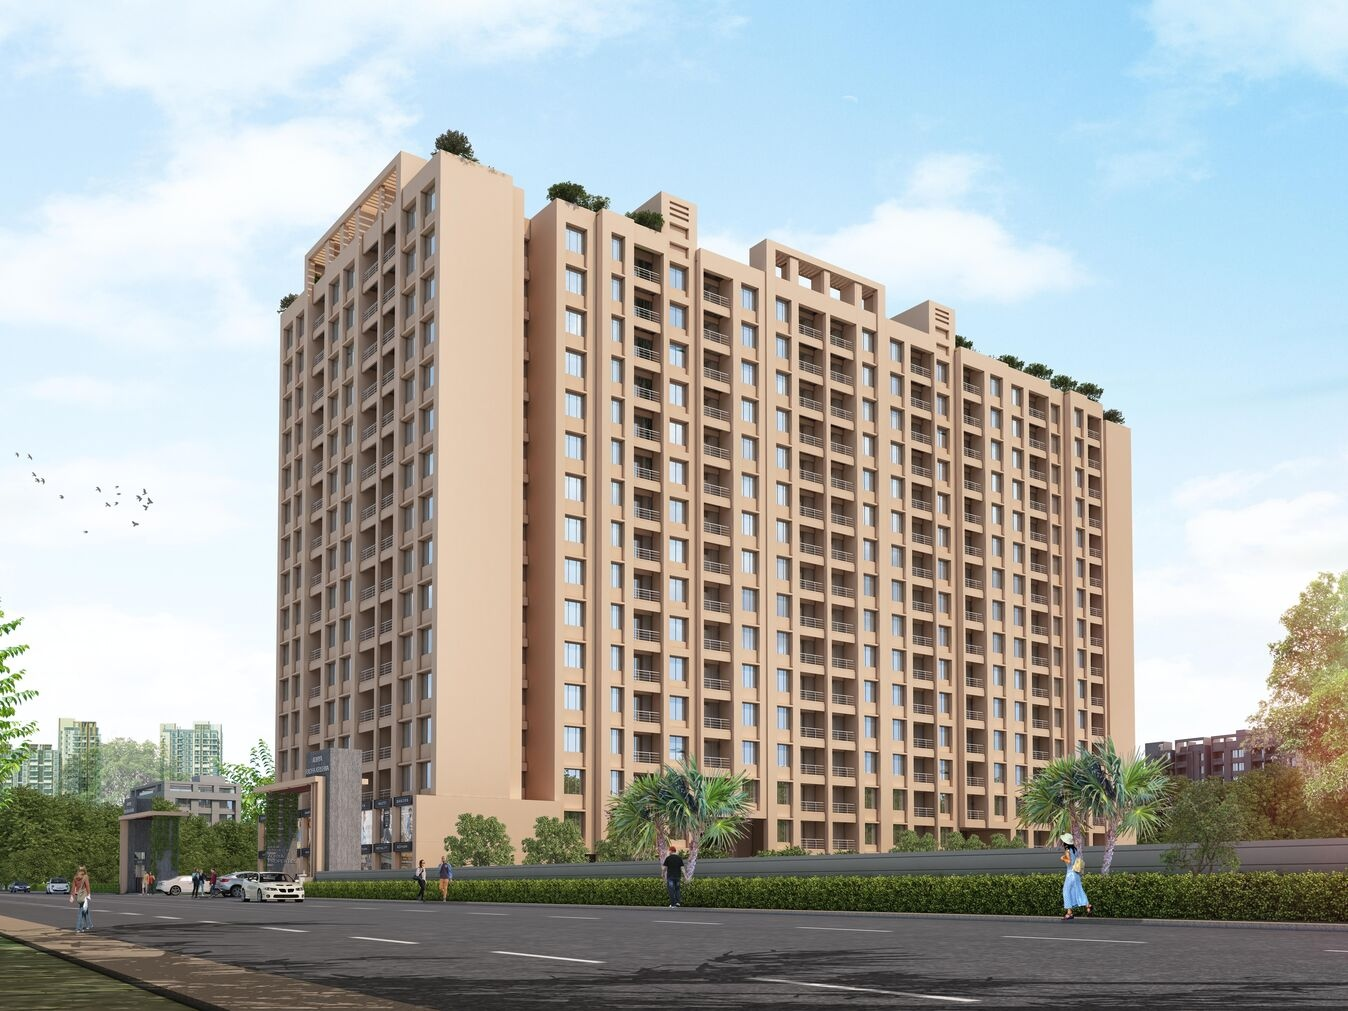
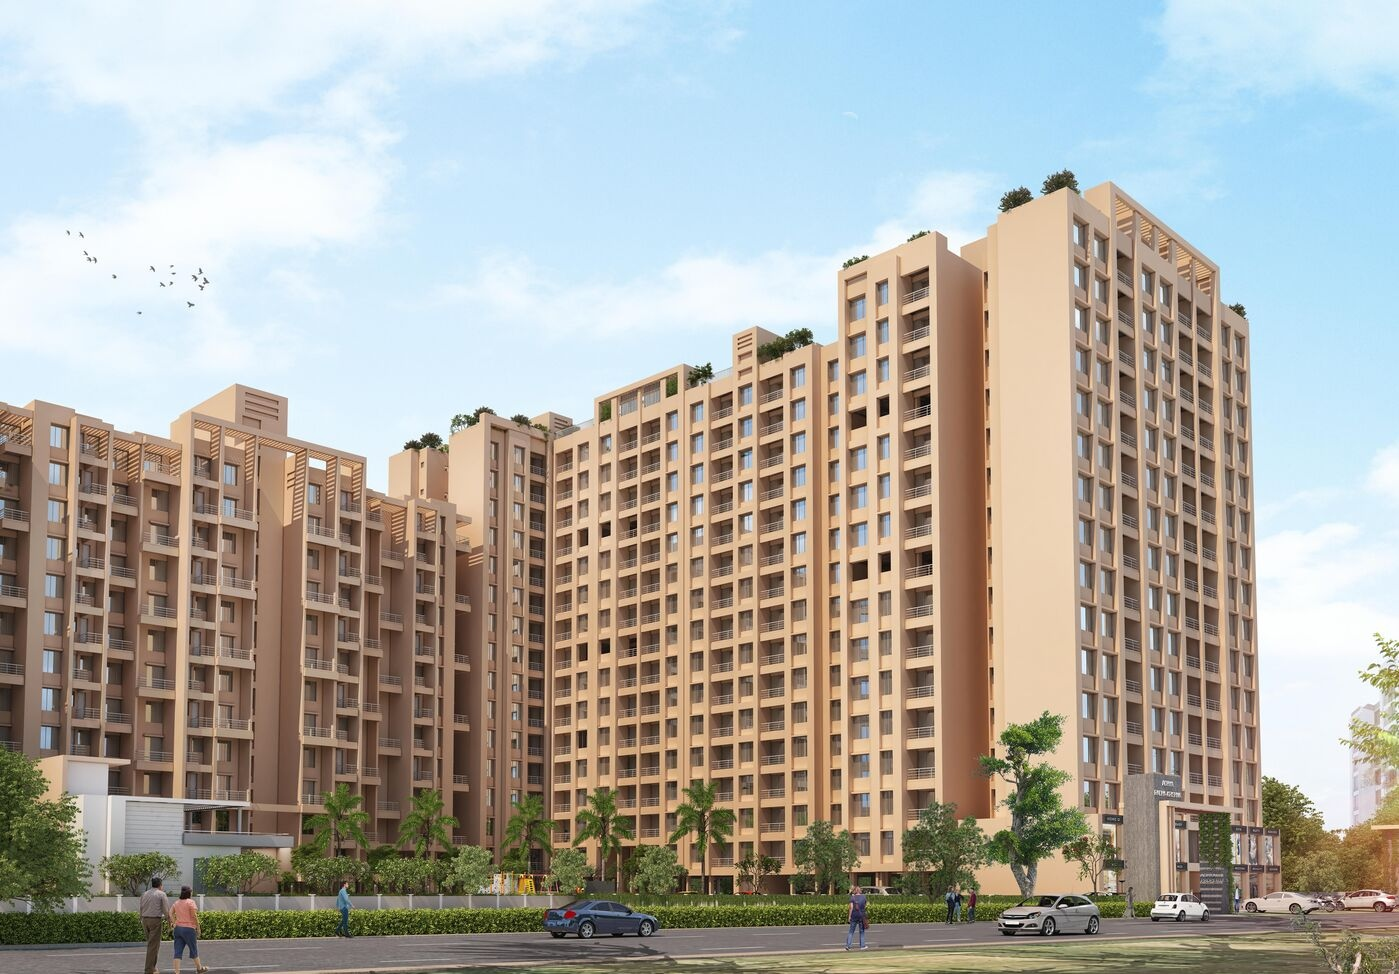
added

diff --git a/src/pages/Projects/Project.jsx b/src/pages/Projects/Project.jsx
@@ -9,7 +9,7 @@ import {
 import styles from "./ProjectsPage.module.scss";
 
 import AdhyaRatan from "../../assets/projects/AdhyaRatan/Image1.jpeg";
-import INFINI from "../../assets/projects/INFINI/Image1.jpg";
+import INFINI from "../../assets/projects/INFINI/Image2.jpg";
 import Citylight from "../../assets/projects/CityLight/Image1.jpg";
 import AdhyaRadha from "../../assets/projects/AdhyaRadha/Image1.jpg";
 import TanishUrbania from "../../assets/projects/TanishUrbania/Image1.jpg";
